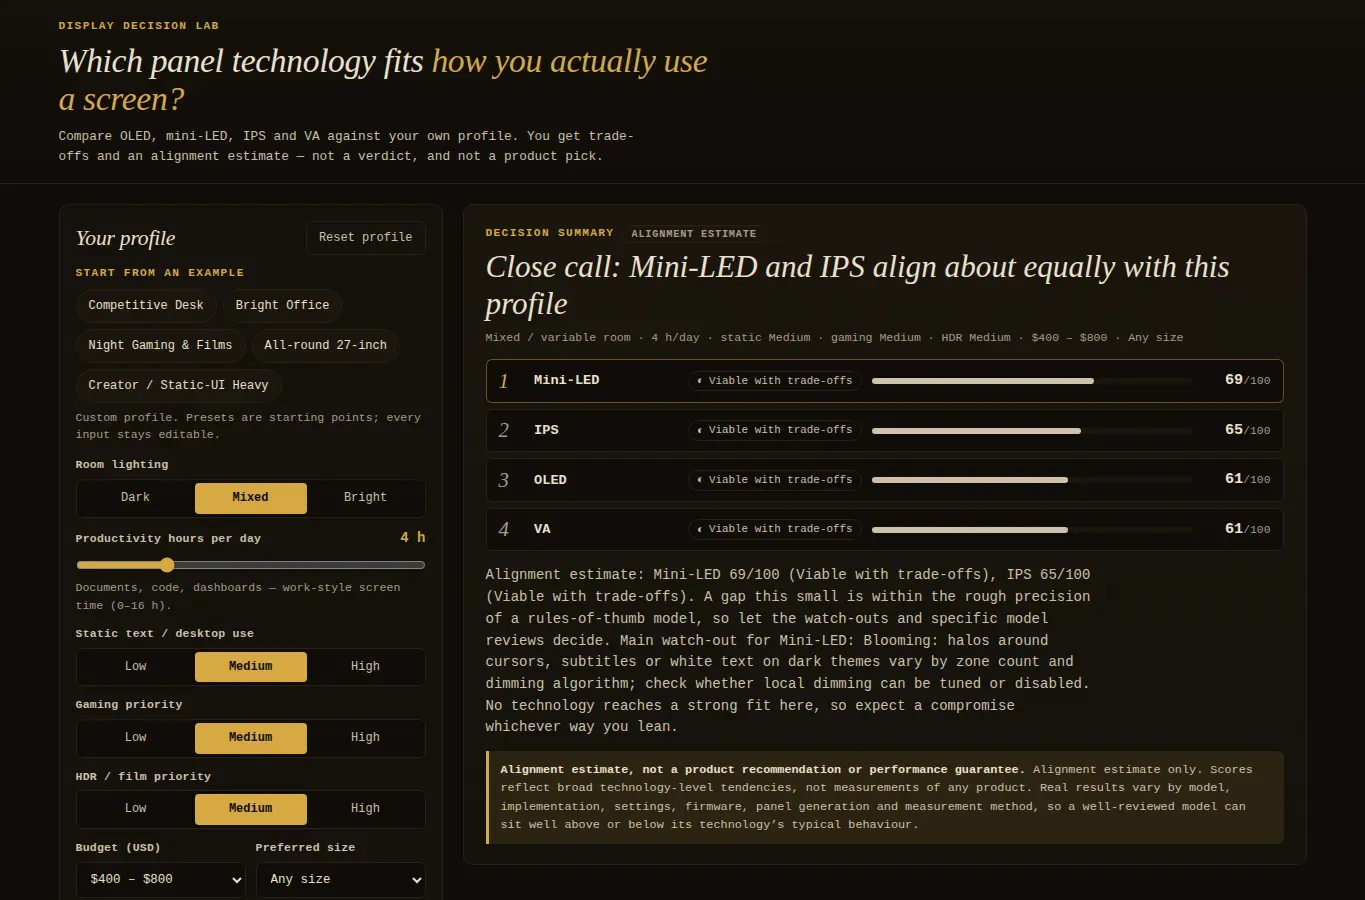
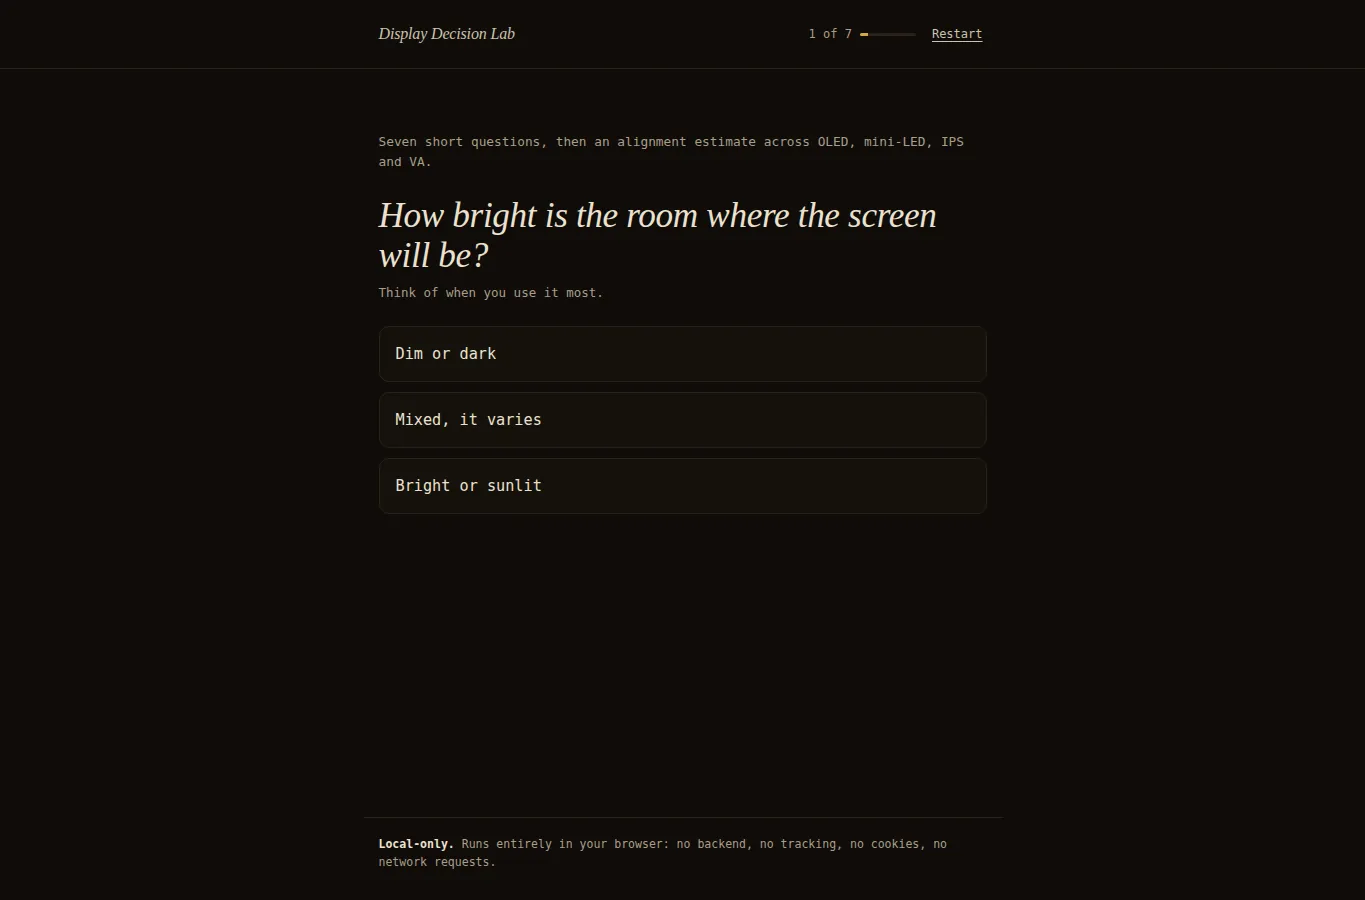
Refresh Display Decision Lab preview

diff --git a/README.md b/README.md
@@ -32,7 +32,7 @@ separate *GitHub repo* link.
 >
 > **Repository dates:** each entry's `createdAt` / `updatedAt` are the GitHub
 > repository `created_at` / `updated_at` values from the authenticated GitHub REST API
-> (one owner Pages inventory, retrieved 2026-10-19T21:17:36Z). They are
+> (one owner Pages inventory, retrieved 2026-10-19T21:46:15Z). They are
 > repository metadata, not page-content dates — `updated_at` moves on any repository
 > update (pushes, settings, description). They are stored statically; the page makes
 > no GitHub API calls.
